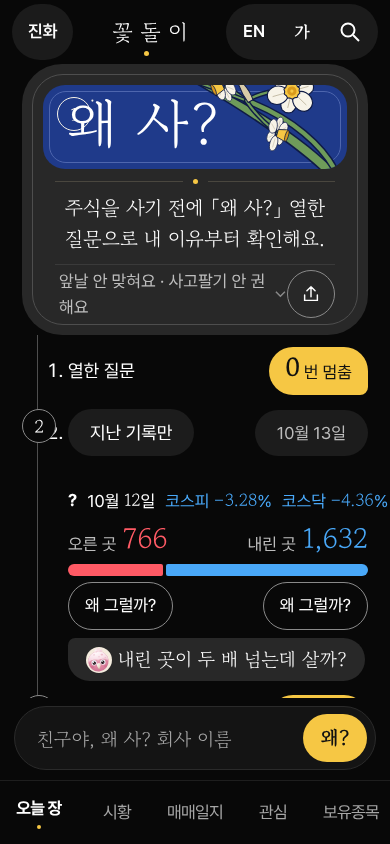
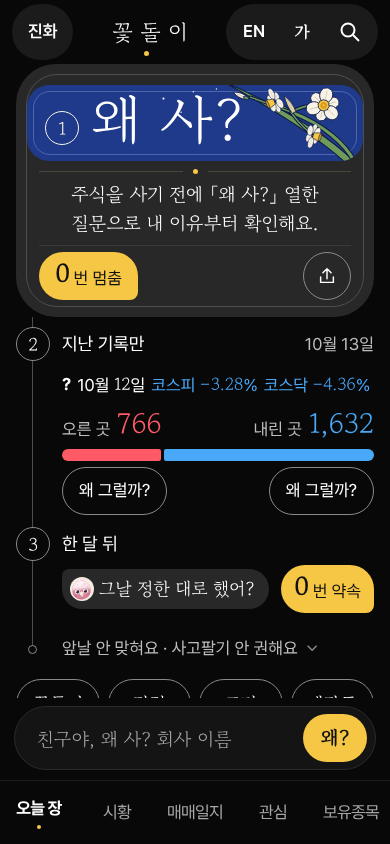
본질 석 장 끝 — 하는 일 셋 · 들은 것만 · 자라는 꽃
Claude-Session: https://claude.ai/code/session_01NCpyR4ELc71hqitZJpUS2Z

diff --git a/docs/design/kakao-2026-10-19/mock/e1.html b/docs/design/kakao-2026-10-19/mock/e1.html
@@ -113,39 +113,41 @@ button,input{font:inherit;color:inherit;background:none;border:0}
 .plate .big{position:relative;padding:0 0 18px 24px;letter-spacing:.02em}
 .plate .rule{margin:14px auto 12px}
 
-/* e1 · 「하는 일 셋」 — 판화 이름판(①) 아래로 한 줄 길(가는 세로선)이 내려가며 ② 지난 기록만 → ③ 한 달 뒤. 내 자리(노랑)는 그 길 위에: ① 끝에 멈춤 · ③ 끝에 약속. 하지 않는 일 둘은 이름판 맨 아래 조용한 한 줄 */
-.plate .head{height:84px}
-.plate .frame{padding-bottom:0}
-.plate .rule{margin:10px auto 8px}
-.plate p[data-ess="1"]{line-height:1.55;font-size:20px}
-.plate .foot{margin-top:10px;padding:2px 0 4px}
-.plate summary{color:#BDBDBD;gap:8px}
-.plate summary::after{content:"⌄";font-size:17px;color:#8A8A8A;margin-top:-6px}
-.step-no{position:absolute;left:-2px;top:0;width:34px;height:34px;border-radius:17px;background:#080808;border:1px solid #8A8A8A;display:flex;align-items:center;justify-content:center;font-family:"Gowun Batang",serif;font-size:18px;line-height:1;color:#FFFFFF}
-.plate .head .step-no{left:14px;top:12px;background:#1F3A8A;border-color:#F7F3E8;color:#F7F3E8}
-.flow{position:relative;margin-top:12px;padding-left:46px}
-.flow::before{content:"";position:absolute;left:15px;top:-12px;bottom:26px;width:1px;background:#4E4E4E}
-.st{position:relative}
-.st+.st{margin-top:14px}
-.st .step-no{left:-46px}
-.st .lbl{display:flex;align-items:center;justify-content:space-between;gap:8px;min-height:34px;font-size:18px;line-height:1.3;color:#FFFFFF;white-space:nowrap}
-.st .lbl .sub{color:#BDBDBD;font-size:17px}
-.chip{display:inline-flex;align-items:baseline;gap:3px;background:#F6C744;color:#111111;border-radius:24px 24px 8px 24px;min-height:48px;padding:7px 16px 0;white-space:nowrap}
+/* e1 · 「하는 일 셋」 — 판화 이름판이 ① · 그 밑으로 가는 세로선 한 줄이 ② 지난 기록만 → ③ 한 달 뒤로 내려감. 내 자리(노랑)는 그 길 위에: ① 끝에 멈춤 · ③ 끝에 약속. 하지 않는 일 둘은 길 끝 조용한 한 줄(누르면 본질 2 · 3) */
+.plate .frame{padding:10px 12px 0}
+.plate .head{height:76px}
+.plate .big{padding:0 0 14px 64px}
+.plate .rule{margin:8px auto 6px}
+.plate p[data-ess="1"]{line-height:1.5;font-size:19px}
+.plate .foot{margin-top:8px;padding:6px 0 6px;justify-content:space-between}
+.no{flex:0 0 auto;width:34px;height:34px;border-radius:17px;border:1px solid #8A8A8A;background:#080808;display:flex;align-items:center;justify-content:center;font-family:"Gowun Batang",serif;font-size:18px;line-height:1;color:#FFFFFF}
+.plate .head .no{position:absolute;left:18px;bottom:16px;background:#1F3A8A;border-color:#F7F3E8;color:#F7F3E8}
+.chip{display:inline-flex;align-items:baseline;gap:3px;background:#F6C744;color:#111111;border-radius:24px 24px 8px 24px;min-height:48px;padding:8px 16px 0;white-space:nowrap}
 .chip b{font-family:"Gowun Batang",serif;font-weight:700;font-size:26px;line-height:1}
 .chip span{font-size:17px;color:#111111}
-.st1 .lbl{min-height:48px}
+.mine-l{display:flex;align-items:center;gap:10px;font-size:17px;color:#BDBDBD}
+.flow{list-style:none;position:relative;margin-top:10px}
+.flow::before{content:"";position:absolute;left:16px;top:-10px;bottom:24px;width:1px;background:#4E4E4E}
+.st{position:relative;padding-left:46px}
+.st+.st{margin-top:12px}
+.st>.no{position:absolute;left:0;top:0}
+.lbl{display:flex;align-items:center;justify-content:space-between;gap:8px;min-height:34px;font-size:18px;line-height:1.3;color:#FFFFFF;white-space:nowrap}
+.lbl .sub{color:#BDBDBD;font-size:17px}
+.read .news h2.lbl{display:flex;justify-content:space-between;margin:0;font-weight:400;font-size:18px}
+.read .news h2.lbl span{background:none;padding:0;border-radius:0}
+.read .news h2.lbl .sub{color:#BDBDBD;font-size:17px}
 .read .pill{justify-content:flex-start;align-items:center;margin:0}
 .read .pill .in{background:none}
-.read .pill a{padding:6px 0 6px;column-gap:10px;min-height:48px;align-items:center}
+.read .pill a{padding:0;column-gap:10px;min-height:48px;align-items:center}
 .news{margin-top:0}
-.split{display:grid;grid-template-columns:1fr 1fr;column-gap:12px;row-gap:6px}
+.split{display:grid;grid-template-columns:1fr 1fr;column-gap:12px;row-gap:4px}
 .split .f{display:contents}
 .split .f>span[data-num]{display:flex;align-items:baseline;gap:6px;grid-row:1}
 .split .fu>span[data-num]{grid-column:1}
 .split .fd>span[data-num]{grid-column:2;justify-content:flex-end}
 .split .lb{font-size:17px;color:#BDBDBD}
 .split .v{font-family:"Gowun Batang",serif;font-size:28px;line-height:1}
-.bar2{grid-row:2;grid-column:1/3;display:flex;gap:3px;height:12px}
+.bar2{grid-row:2;grid-column:1/3;display:flex;gap:3px;height:12px;margin:2px 0}
 .bar2 i{display:block;flex-basis:0;min-width:0}
 .bar2 .bu{background:#FF5A65;border-radius:6px 2px 2px 6px}
 .bar2 .bd{background:#49A8F8;border-radius:2px 6px 6px 2px}
@@ -155,32 +157,43 @@ button,input{font:inherit;color:inherit;background:none;border:0}
 .split .qs{display:none;grid-column:1/3;font-size:17px;color:#D6D6D6}
 .split .fu .qs{grid-row:4}.split .fd .qs{grid-row:5}
 .split .f.open .qs{display:block}
-.st .say{display:inline-block;margin-top:8px;background:#282828;border-radius:8px 24px 24px 24px;padding:8px 18px;font-size:19px;line-height:1.4;white-space:nowrap}
-.st .say img{width:26px;height:26px;vertical-align:-6px;margin-right:6px}
-.st3 .q{display:block;font-family:"Gowun Batang",serif;font-size:20px;line-height:1.4;color:#FFFFFF;margin-top:2px}
-.gdr{margin:14px 0 0 0}
+.st3 .row{display:flex;align-items:center;justify-content:space-between;gap:8px;margin-top:4px}
+.st3 .say{display:inline-flex;align-items:center;gap:6px;background:#282828;border-radius:8px 24px 24px 24px;padding:8px 16px 8px 10px;font-size:19px;line-height:1.3;white-space:nowrap}
+.st3 .say img{width:28px;height:28px}
+.st4{min-height:0}
+.quiet summary{list-style:none;min-height:48px;display:flex;align-items:center;gap:8px;font-size:17px;color:#BDBDBD;cursor:pointer;white-space:nowrap}
+.quiet summary::-webkit-details-marker{display:none}
+.quiet summary::after{content:"⌄";color:#8A8A8A;margin-top:-6px}
+.quiet p{font-size:17px;color:#D6D6D6;line-height:1.55;margin:0 0 8px}
+.st4>.dot{position:absolute;left:12px;top:20px;width:9px;height:9px;border-radius:5px;border:1px solid #8A8A8A;background:#080808}
+.gdr{margin:6px 0 0 0}
+#view{padding:0 16px}
+.read .pill a{column-gap:6px;justify-content:flex-start}
+.st3 .say{font-size:18px;padding:8px 14px 8px 8px;gap:5px}
+.st3 .say img{width:24px;height:24px}
+.st3 .chip{padding:8px 13px 0}
 .all{margin-top:0}
 
 @media (max-width:359px){
-  .plate .head{height:84px;margin:0 -4px}
-  .plate .big{padding:0 0 16px 60px;font-size:40px}
-  .plate .head .step-no{left:12px;top:auto;bottom:16px}
+  .plate .head{height:76px;margin:0 -4px}
+  .plate .big{font-size:40px;padding:0 0 16px 58px}
+  .plate .head .no{left:14px}
   .plate .frame{padding:10px 10px 0}
-  .plate p[data-ess="1"]{font-size:18px;line-height:1.5}
+  .plate p[data-ess="1"]{font-size:18px}
   .top{padding:0 8px}
   .ttl{font-size:20px;letter-spacing:.18em;text-indent:.18em}
   .ttl::after{margin-left:-.18em}
   #view{padding:0 12px}
-  .flow{padding-left:40px}
-  .flow::before{left:15px}
-  .st .step-no{left:-40px}
+  .st{padding-left:42px}
   .read .pill a{flex-wrap:wrap;white-space:normal;column-gap:8px}
   .split .v{font-size:24px}
   .split button{padding:0 10px}
-  .st .say{white-space:normal;font-size:18px}
-  .st .lbl{font-size:17px}
-  .chip{padding:7px 12px 0}
+  .st3 .row{flex-wrap:wrap}
+  .st3 .say{font-size:17px;padding:8px 12px 8px 8px}
+  .st3 .say img{width:24px;height:24px}
+  .chip{padding:8px 12px 0}
   .chip b{font-size:22px}
+  .quiet summary{white-space:normal}
   .gdr a{font-size:17px}
   .tabs a{letter-spacing:-0.07em}
 }
@@ -201,7 +214,7 @@ button,input{font:inherit;color:inherit;background:none;border:0}
   <section class="plate" data-w="ess">
     <div class="frame">
       <div class="head">
-        <svg class="print" viewBox="0 0 320 112" preserveAspectRatio="xMaxYMax slice" aria-hidden="true"><defs>
+        <svg class="print" viewBox="0 0 320 112" preserveAspectRatio="xMaxYMid meet" aria-hidden="true"><defs>
 <g id="g3-bloom"><g fill="#F7F3E8" stroke="#0F1B45" stroke-width="1.3" stroke-linejoin="round"><path d="M0 -4 C 8.6 -5.6 11.6 -16 5.6 -23 Q 0 -26.8 -5.6 -23 C -11.6 -16 -8.6 -5.6 0 -4 Z" transform="rotate(60)"/><path d="M0 -4 C 8.6 -5.6 11.6 -16 5.6 -23 Q 0 -26.8 -5.6 -23 C -11.6 -16 -8.6 -5.6 0 -4 Z" transform="rotate(180)"/><path d="M0 -4 C 8.6 -5.6 11.6 -16 5.6 -23 Q 0 -26.8 -5.6 -23 C -11.6 -16 -8.6 -5.6 0 -4 Z" transform="rotate(300)"/><path d="M0 -4 C 10 -6 13.5 -18 6.5 -26 Q 0 -30.5 -6.5 -26 C -13.5 -18 -10 -6 0 -4 Z" transform="rotate(0)"/><path d="M0 -4 C 10 -6 13.5 -18 6.5 -26 Q 0 -30.5 -6.5 -26 C -13.5 -18 -10 -6 0 -4 Z" transform="rotate(120)"/><path d="M0 -4 C 10 -6 13.5 -18 6.5 -26 Q 0 -30.5 -6.5 -26 C -13.5 -18 -10 -6 0 -4 Z" transform="rotate(240)"/></g><g stroke="#BDB49C" stroke-width=".9" stroke-linecap="round"><path d="M0 -9 L0 -22" transform="rotate(0)"/><path d="M0 -9 L0 -19" transform="rotate(60)"/><path d="M0 -9 L0 -22" transform="rotate(120)"/><path d="M0 -9 L0 -19" transform="rotate(180)"/><path d="M0 -9 L0 -22" transform="rotate(240)"/><path d="M0 -9 L0 -19" transform="rotate(300)"/></g><path d="M9.20 0.00 L7.70 2.50 L7.44 5.41 L4.76 6.55 L2.84 8.75 L0.00 8.10 L-2.84 8.75 L-4.76 6.55 L-7.44 5.41 L-7.70 2.50 L-9.20 0.00 L-7.70 -2.50 L-7.44 -5.41 L-4.76 -6.55 L-2.84 -8.75 L-0.00 -8.10 L2.84 -8.75 L4.76 -6.55 L7.44 -5.41 L7.70 -2.50Z" fill="#F6C744" stroke="#0F1B45" stroke-width="1.2" stroke-linejoin="round"/><circle r="5.2" fill="#D99A1C"/><circle r="1.8" fill="#F6C744"/></g>
 <g id="g3-side"><g transform="scale(.56 1)"><g fill="#F7F3E8" stroke="#0F1B45" stroke-width="1.3" stroke-linejoin="round"><path d="M0 -4 C 8.6 -5.6 11.6 -16 5.6 -23 Q 0 -26.8 -5.6 -23 C -11.6 -16 -8.6 -5.6 0 -4 Z" transform="rotate(60)"/><path d="M0 -4 C 8.6 -5.6 11.6 -16 5.6 -23 Q 0 -26.8 -5.6 -23 C -11.6 -16 -8.6 -5.6 0 -4 Z" transform="rotate(180)"/><path d="M0 -4 C 8.6 -5.6 11.6 -16 5.6 -23 Q 0 -26.8 -5.6 -23 C -11.6 -16 -8.6 -5.6 0 -4 Z" transform="rotate(300)"/><path d="M0 -4 C 10 -6 13.5 -18 6.5 -26 Q 0 -30.5 -6.5 -26 C -13.5 -18 -10 -6 0 -4 Z" transform="rotate(0)"/><path d="M0 -4 C 10 -6 13.5 -18 6.5 -26 Q 0 -30.5 -6.5 -26 C -13.5 -18 -10 -6 0 -4 Z" transform="rotate(120)"/><path d="M0 -4 C 10 -6 13.5 -18 6.5 -26 Q 0 -30.5 -6.5 -26 C -13.5 -18 -10 -6 0 -4 Z" transform="rotate(240)"/></g><g stroke="#BDB49C" stroke-width=".9" stroke-linecap="round"><path d="M0 -9 L0 -22" transform="rotate(0)"/><path d="M0 -9 L0 -19" transform="rotate(60)"/><path d="M0 -9 L0 -22" transform="rotate(120)"/><path d="M0 -9 L0 -19" transform="rotate(180)"/><path d="M0 -9 L0 -22" transform="rotate(240)"/><path d="M0 -9 L0 -19" transform="rotate(300)"/></g></g><path d="M-1 -5.6 L-13 -8.6 Q-15.4 -9.4 -16 -7 Q-17.6 0 -16 7 Q-15.4 9.4 -13 8.6 L-1 5.6 Z" fill="#F6C744" stroke="#0F1B45" stroke-width="1.2" stroke-linejoin="round"/><ellipse cx="-15.8" cy="0" rx="2.4" ry="8.4" fill="#D99A1C" stroke="#0F1B45" stroke-width="1.1"/></g>
 </defs>
@@ -218,28 +231,21 @@ button,input{font:inherit;color:inherit;background:none;border:0}
 <use href="#g3-side" transform="translate(246 74) rotate(196) scale(.7)"/>
 <use href="#g3-bloom" transform="translate(262 30) rotate(14) scale(.94)"/>
 </svg>
-        <span class="step-no" aria-label="하는 일 하나">1</span>
+        <span class="no" aria-hidden="true">1</span>
         <span class="big serif">왜 사?</span>
       </div>
       <span class="rule"><i></i></span>
       <p data-ess="1" class="serif">주식을 사기 전에 「왜 사?」 열한 질문으로 내 이유부터 확인해요.</p>
       <div class="foot">
-        <details>
-          <summary>앞날 안 맞혀요 · 사고팔기 안 권해요</summary>
-          <p data-ess="2">앞날을 맞히지 않아요. 코스피와 코스닥 회사 2,557곳의 지난 기록만 보여 줘요.</p>
-          <p data-ess="3">사고팔기를 권하지 않아요. 숫자는 네이버 증권에서 받아요. 마지막으로 받은 때: ?.</p>
-        </details>
+        <span class="mine-l"><a class="chip" href="#/why" data-num><b>0</b><span>번 멈춤</span></a></span>
         <button class="kk-btn" type="button" aria-label="친구에게 보내기"><svg width="20" height="20" viewBox="0 0 22 22" fill="none" stroke="#FFFFFF" stroke-width="1.6" stroke-linecap="round"><path d="M11 14V3M6.5 7.5L11 3l4.5 4.5M4 12v6h14v-6"/></svg></button>
       </div>
     </div>
   </section>
 
   <ol class="flow" aria-label="하는 일 셋">
-    <li class="st st1">
-      <div class="lbl"><span>열한 질문</span><a class="chip" href="#/why" data-num><b>0</b><span>번 멈춤</span></a></div>
-    </li>
     <li class="st st2 read">
-      <span class="step-no">2</span>
+      <span class="no" aria-hidden="true">2</span>
       <div class="news" data-w="news">
         <h2 class="lbl"><span>지난 기록만</span><span class="sub">10월 13일</span></h2>
         <div class="pill" data-w="today"><span class="in"><a data-num href="#/f/day"><span class="q">?</span><span>10월 <span class="n">12</span>일</span><span class="dn">코스피 <span class="n">−3.28</span>%</span><span class="dn">코스닥 <span class="n">−4.36</span>%</span></a></span></div>
@@ -249,12 +255,19 @@ button,input{font:inherit;color:inherit;background:none;border:0}
           <span class="bar2" aria-hidden="true"><i class="bu" style="flex-grow:766"></i><i class="bd" style="flex-grow:1632"></i></span>
         </div>
       </div>
-      <p class="say serif" data-say><img src="../../../../site/media/makbi-icon.svg" alt="꽃돌이">내린 곳이 두 배 넘는데 살까?</p>
     </li>
     <li class="st st3">
-      <span class="step-no">3</span>
-      <div class="lbl"><span>한 달 뒤</span><a class="chip" href="#/why" data-num><b>0</b><span>번 약속</span></a></div>
-      <span class="q">「그날 정한 대로 했어?」</span>
+      <span class="no" aria-hidden="true">3</span>
+      <div class="lbl"><span>한 달 뒤</span></div>
+      <div class="row"><p class="say serif" data-say><img src="../../../../site/media/makbi-icon.svg" alt="꽃돌이">그날 정한 대로 했어?</p><a class="chip" href="#/why" data-num><b>0</b><span>번 약속</span></a></div>
+    </li>
+    <li class="st st4">
+      <span class="dot" aria-hidden="true"></span>
+      <details class="quiet">
+        <summary>앞날 안 맞혀요 · 사고팔기 안 권해요</summary>
+        <p data-ess="2">앞날을 맞히지 않아요. 코스피와 코스닥 회사 2,557곳의 지난 기록만 보여 줘요.</p>
+        <p data-ess="3">사고팔기를 권하지 않아요. 숫자는 네이버 증권에서 받아요. 마지막으로 받은 때: ?.</p>
+      </details>
     </li>
   </ol>
 

diff --git a/docs/design/kakao-2026-10-19/mock/e1.why.md b/docs/design/kakao-2026-10-19/mock/e1.why.md
@@ -1,0 +1,21 @@
+# e1 · 「하는 일 셋」
+
+한 줄 생각: s1의 판화 수선화 이름판을 ① 자리로 삼았다. 그 밑으로 가는 세로선 하나가 ② 지난 기록만, ③ 한 달 뒤로 이어진다. 내 기록 노랑 딱지는 그 길 위 두 곳에 놓았다. ① 끝에 「0번 멈춤」, ③ 끝에 「0번 약속」이다.
+
+## 왜? 다섯
+1. 왜 세로선 하나인가? 하는 일 셋은 차례가 있는 일이다. 묻고, 보고, 한 달 뒤 돌아본다. 선 하나가 그 차례를 글 없이 보여 준다.
+2. 왜 이름판이 ①인가? 본질 첫 줄이 이미 「왜 사?」 열한 질문을 말한다. 같은 말을 한 번 더 쓰지 않고 이름판에 「1」만 붙였다. 글자 수도 아꼈다.
+3. 왜 멈춤 수와 약속 수가 따로 있나? 멈춤은 ① 질문에서 생기고, 약속은 ③ 한 달 뒤에 확인된다. 숫자가 자기가 생기는 자리에 있어야 뜻이 읽힌다.
+4. 왜 하지 않는 일 둘은 작은 한 줄인가? 하지 않는 일은 크게 외칠 일이 아니다. 길 끝에 흐린 한 줄로 두고, 누르면 본질 2 · 3 글이 그대로 열린다.
+5. 본질: 사기 전에 한 번 멈추게 하는 곳. 첫 화면을 위에서 아래로 읽으면 멈추는 차례 그대로 내려온다.
+
+## 그럴까?
+③ 「그날 정한 대로 했어?」가 첫 화면에 있으면 오늘 산 사람에게 하는 말로 읽히지 않을까? 그래서 「한 달 뒤」 이름을 위에 붙이고, 옆에 내 약속 수를 두어 지금 할 일이 아니라 나중 차례임을 보였다.
+
+## s1 에서 바뀐 것
+- s1의 꽃돌이 말 「내린 곳이 두 배 넘는데 살까?」는 뺐다. 꽃돌이 말은 ③의 「그날 정한 대로 했어?」가 맡는다. 글자 수 한도를 지키려고 고른 것이다.
+- 「시황」 머리말 자리는 「지난 기록만 · 10월 13일」로 바꿨다. 「더 보기」 자리는 하지 않는 일 한 줄이 맡는다.
+- 숫자, 날짜, 본질 세 줄 글자, 표시, 아래 단추 다섯은 그대로다.
+
+## 검사
+check_white --mock: 통과 22 · 실패 2(흰 바탕 · 글 #16181D 두 줄만). 글자 101자, 한도 105자.
